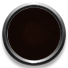
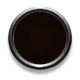
[Editing] {choose player menu}

diff --git a/game_func/game/player_display.c b/game_func/game/player_display.c
@@ -1,0 +1,75 @@
+/*
+** EPITECH PROJECT, 2020
+** player_display
+** File description:
+** player_display
+*/
+
+#include "rpg.h"
+#include "player.h"
+#include "player_size.h"
+
+void test_arrows_game(int spritepos)
+{
+    sfVector2i pos;
+    sfVector2f sprite;
+
+    pos = sfMouse_getPositionRenderWindow(handle_window);
+    sprite = sfSprite_getPosition(pl.sp[spritepos]);
+    if (pos.y < sprite.y + 100 && pos.y > sprite.y
+    && pos.x < sprite.x + 350 && pos.x > sprite.x) {
+        sfSprite_setPosition(hdl_arrow.sp[spritepos],
+        (sfVector2f){plsizex[spritepos], plsizey[spritepos]});
+        sfRenderWindow_drawSprite(handle_window,
+        hdl_arrow.sp[spritepos], NULL);
+        sfRenderWindow_drawText(handle_window, pl.texts[spritepos], NULL);
+    } else {
+        sfRenderWindow_drawSprite(handle_window,
+        pl.sp[spritepos], NULL);
+        sfRenderWindow_drawText(handle_window, pl.texts[spritepos], NULL);
+    }
+}
+
+void move_sprite(sfIntRect *rect, int offset, int max_value)
+{
+    rect->left = (rect->left + offset);
+    if (rect->left >= max_value)
+        rect->left = 0;
+}
+
+sfIntRect clock_player(sfIntRect rect_player, int size)
+{
+    float seconds;
+
+    time = sfClock_getElapsedTime(clock);
+    seconds = time.microseconds / 1000000.0;
+    if (seconds > 0.22) {
+        move_sprite(&rect_player, 16, size);
+        sfClock_restart(clock);
+    }
+    return (rect_player);
+}
+
+void player_choose_display(void)
+{
+    sfRenderWindow_clear(handle_window, sfBlack);
+    for (int i = 0; i <= 5; i++) {
+        sfText_setString(pl.texts[i], player_txt[i]);
+        sfText_setCharacterSize(pl.texts[i], sizeptxt[i]);
+        sfText_setPosition(pl.texts[i],
+        (sfVector2f){pltxsizex[i], pltxsizey[i]});
+        sfSprite_setPosition(pl.sp[i],
+        (sfVector2f){plsizex[i], plsizey[i]});
+        if (i > 2) {
+            sfSprite_setTextureRect(pl.sp[i], rect);
+            sfSprite_setScale(pl.sp[i], (sfVector2f){4, 4});
+        }
+        test_arrows_game(1);
+        test_arrows_game(2);
+        if (i != 1 || i != 2) {
+            sfRenderWindow_drawSprite(handle_window, pl.sp[i], NULL);
+            sfRenderWindow_drawText(handle_window, pl.texts[i], NULL);
+        }
+    }
+    sfRenderWindow_display(handle_window);
+}

diff --git a/game_func/handle.c b/game_func/handle.c
@@ -7,6 +7,7 @@
 
 #include "rpg.h"
 #include "basic.h"
+#include "player.h"
 
 void eventclose(sfEvent event)
 {
@@ -24,6 +25,9 @@ void eventclose(sfEvent event)
 
 void destroy(void)
 {
+    free(pl.sp);
+    free(pl.tx);
+    free(pl.texts);
     free(handle.sp);
     free(handle.tx);
     free(handle.texts);
@@ -63,18 +67,21 @@ void event_loop(sfEvent event)
                 musicbar();
             test_mouse_sett(2, 100, 350);
             test_mouse_sett(3, 100, 350);
-            test_mouse_sett(8, 68, 68);
-            test_mouse_sett(9, 68, 68);
+            test_mouse_sett(8, 80, 80);
+            test_mouse_sett(9, 80, 80);
         }
     }
 }
 
 void handle_play(void)
 {
+    sfIntRect rect_knight = {0, 0, 16, 28};
+    clock = sfClock_create();
     handle_window = create_window(1920, 1080, 64);
     handle_t handle_sprite = initengine();
     hdl_arrow = initarrow();
     settings = settengine();
+    pl = player_engine();
     sfEvent event;
     initmusic();
     cirbutt = settcircle();
@@ -82,6 +89,9 @@ void handle_play(void)
     while (sfRenderWindow_isOpen(handle_window)) {
         event_loop(event);
         switch_display(handle_sprite);
+        rect_knight = clock_player(rect_knight, 64);
+        rect = rect_knight;
+
     }
     destroy();
 }

diff --git a/include/player_size.h b/include/player_size.h
@@ -1,0 +1,70 @@
+/*
+** EPITECH PROJECT, 2020
+** player_size
+** File description:
+** player_size
+*/
+
+#ifndef player_size
+#define player_size
+
+static const char *player_txt[6] =
+{
+    "PLAYERS",
+    "OK",
+    "CANCEL",
+    "KNIGHT",
+    "ELF",
+    "WIZARD"
+};
+
+static int plsizex[6] =
+{
+    350,
+    550,
+    1100,
+    700,
+    960,
+    1220
+};
+
+static int plsizey[6] =
+{
+    50,
+    800,
+    800,
+    300,
+    300,
+    300
+};
+
+static int sizeptxt[6] =
+{
+    100,
+    40,
+    40,
+    20,
+    20,
+    20
+};
+
+static int pltxsizex[6] =
+{
+    725,
+    700,
+    1190,
+    690,
+    970,
+    1210
+};
+
+static int pltxsizey[6] =
+{
+    80,
+    825,
+    825,
+    500,
+    500,
+    500
+};
+#endif /* !player_size */

diff --git a/game_func/game/player_engine.c b/game_func/game/player_engine.c
@@ -1,0 +1,25 @@
+/*
+** EPITECH PROJECT, 2020
+** player engine
+** File description:
+** player engine
+*/
+
+#include "basic.h"
+#include "player.h"
+#include "link_player.h"
+
+player_choose_t player_engine(void)
+{
+    pl.tx = malloc(sizeof(sfTexture*) * 6 + 1);
+    pl.sp = malloc(sizeof(sfSprite*) * 6 + 1);
+    pl.texts = malloc(sizeof(sfText *) * 6 + 1);
+    for (int i = 0; i <= 5; i++) {
+        pl.tx[i] = sfTexture_createFromFile(playertx[i], NULL);
+        pl.sp[i] = sfSprite_create();
+        pl.texts[i] = sfText_create();
+        sfText_setFont(pl.texts[i], font);
+        sfSprite_setTexture(pl.sp[i], pl.tx[i], sfTrue);
+    }
+    return pl;
+}

diff --git a/include/player.h b/include/player.h
@@ -1,0 +1,36 @@
+/*
+** EPITECH PROJECT, 2020
+** player
+** File description:
+** player
+*/
+
+#ifndef player
+#define player
+
+#include "rpg.h"
+
+typedef struct player_choose
+{
+    sfText **texts;
+    sfTexture **tx;
+    sfSprite **sp;
+}player_choose_t;
+
+player_choose_t pl;
+
+typedef struct game
+{
+    sfTexture **tx;
+    sfSprite **sp;
+}game_t;
+
+game_t game;
+
+sfClock *clock;
+sfTime time;
+
+player_choose_t player_engine(void);
+void player_choose_display(void);
+
+#endif /* !player */

diff --git a/include/link_player.h b/include/link_player.h
@@ -1,0 +1,21 @@
+/*
+** EPITECH PROJECT, 2020
+** link player
+** File description:
+** link
+*/
+
+#ifndef link_player
+#define link_player
+
+static const char *playertx[6] =
+{
+    "assets/handle/buttons/settings_tbl.png",
+    "assets/handle/buttons/button.png",
+    "assets/handle/buttons/button.png",
+    "assets/game/player_sprite/knight_idle.png",
+    "assets/game/player_sprite/elf_idle.png",
+    "assets/game/player_sprite/wizard_idle.png"
+};
+
+#endif /* !link_player */

diff --git a/include/rpg.h b/include/rpg.h
@@ -9,6 +9,7 @@
 #define rpg
 
 #include "engine.h"
+#include "player.h"
 
 
 void game_player_choose(void);
@@ -18,6 +19,7 @@ handle_t initengine(void);
 handle_arrow_t initarrow(void);
 settings_butt_t settcircle(void);
 settings_t settengine(void);
+sfIntRect clock_player(sfIntRect rect_player, int size);
 void initmusic(void);
 void settings_display(void);
 void musicbar(void);

diff --git a/game_func/display/game.c b/game_func/display/game.c
@@ -12,8 +12,7 @@ void game_player_choose(void)
     switch(states.game_states)
     {
         case player_choose:
-            sfRenderWindow_clear(handle_window, sfBlack);
-            sfRenderWindow_display(handle_window);
+            player_choose_display();
             break;
         case map_charg:
             sfRenderWindow_clear(handle_window, sfBlue);

diff --git a/include/engine.h b/include/engine.h
@@ -68,14 +68,6 @@ typedef struct settings
 
 settings_t settings;
 
-typedef struct game
-{
-    sfTexture **tx;
-    sfSprite **sp;
-}game_t;
-
-game_t game;
-
 typedef struct pause_game
 {
     sfTexture **tx;
@@ -92,6 +84,7 @@ typedef struct states
 
 states_t states;
 
+sfIntRect rect;
 sfFont *font;
 sfMusic *music;
 

diff --git a/game_func/mouse.c b/game_func/mouse.c
@@ -7,7 +7,6 @@
 
 #include "rpg.h"
 #include "basic.h"
-//#include "sizesprite.h"
 
 void test_arrows(int spritepos, handle_t handle_sprite)
 {
